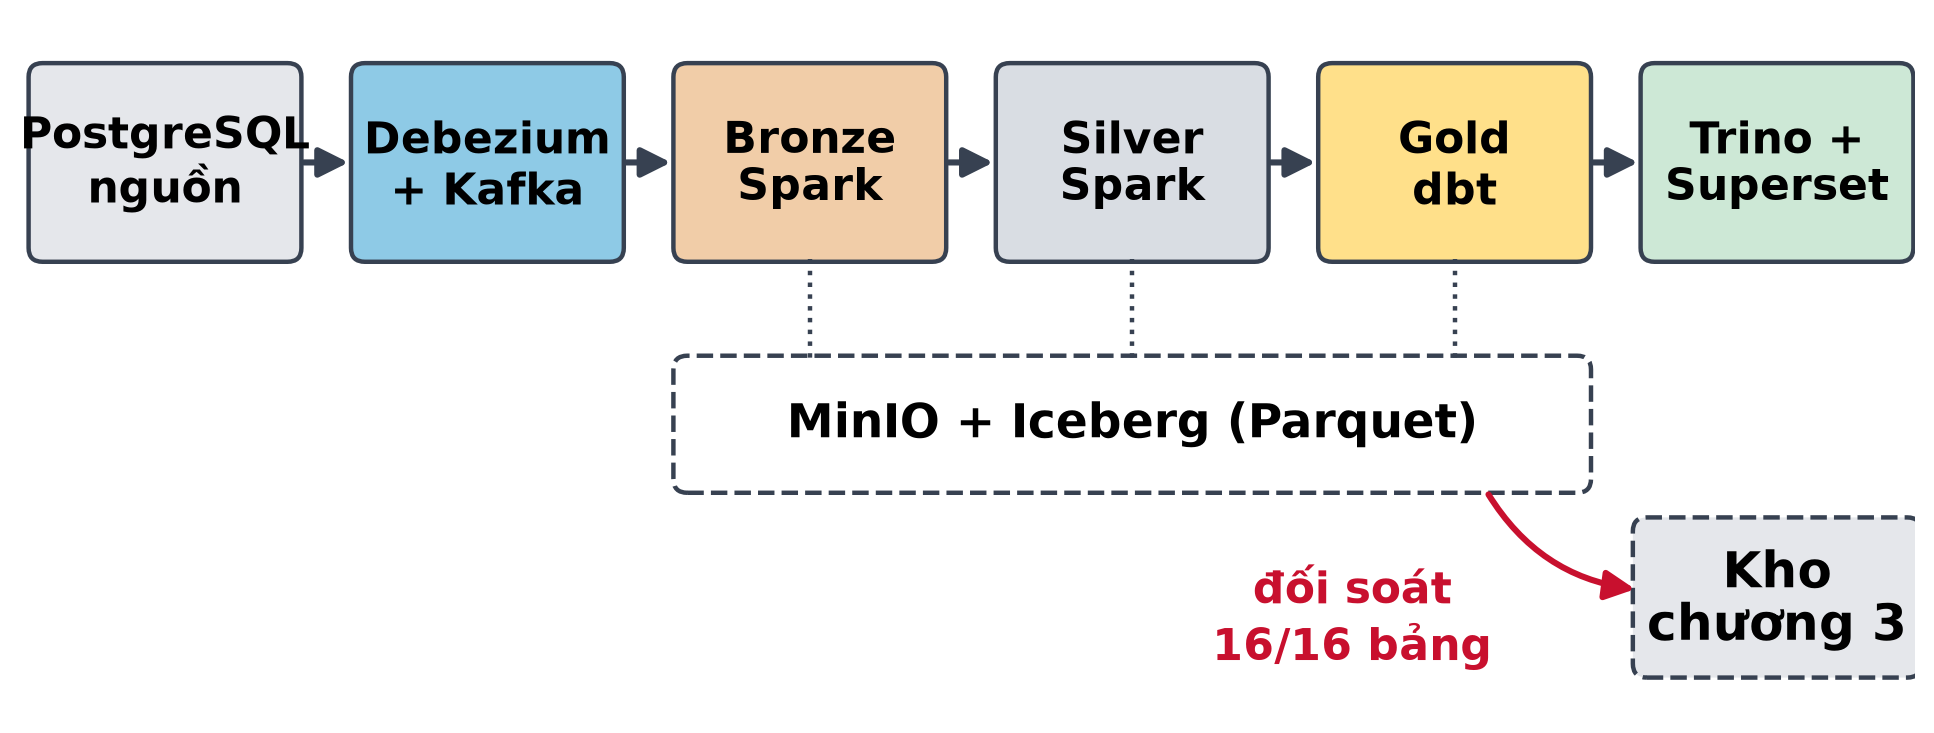
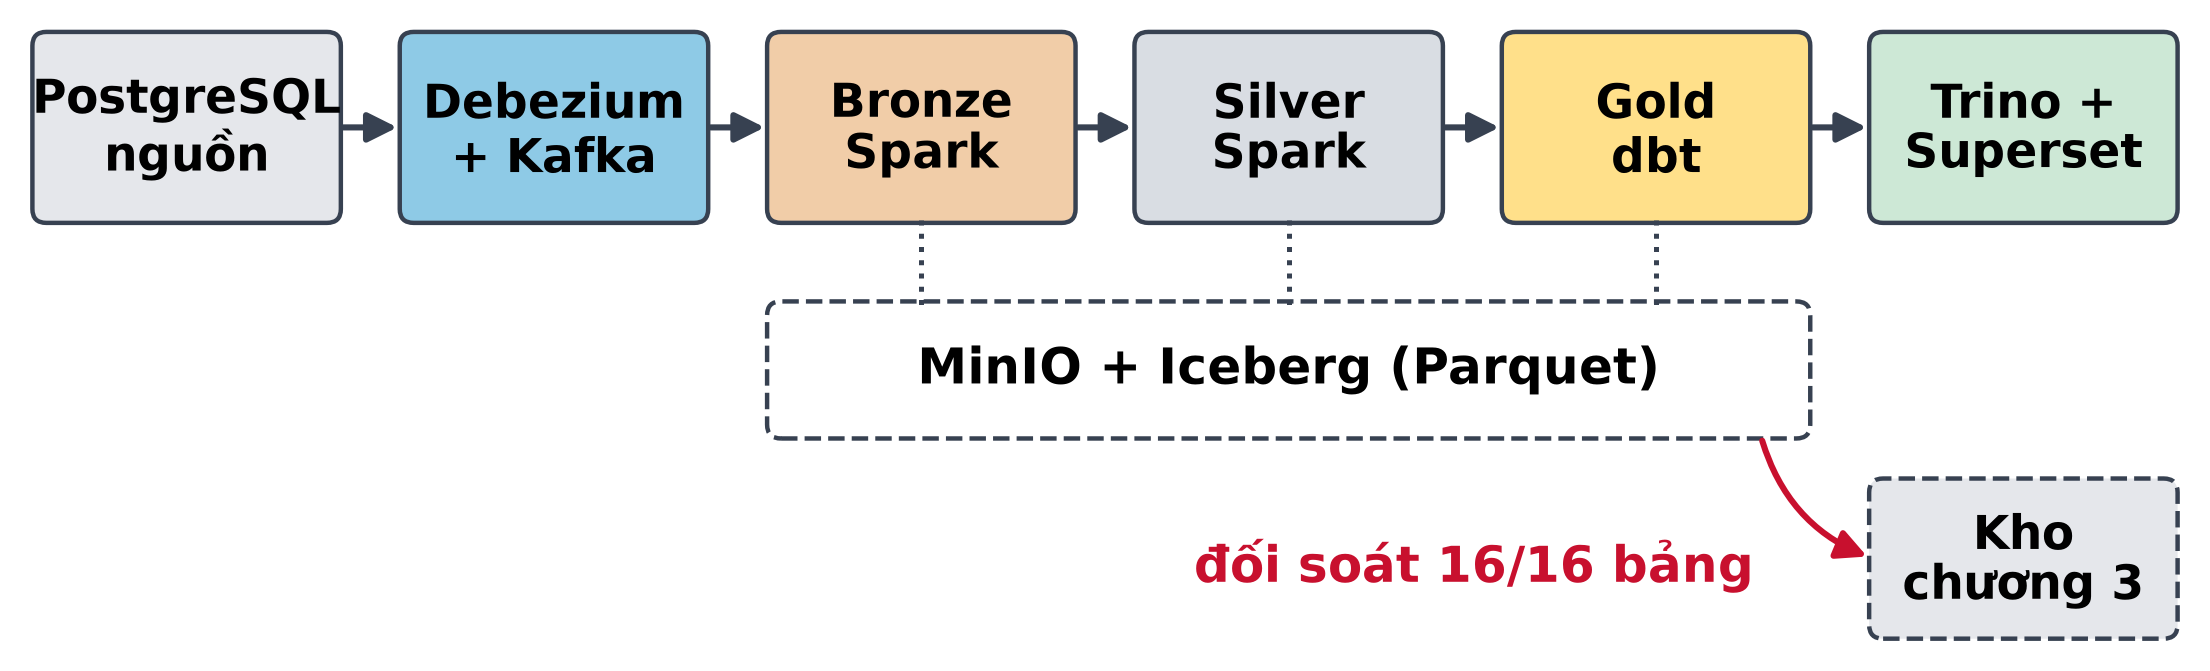
feat(P11c): cards on text-only slides, lakehouse diagram 3.3:1, fact lineage screenshot (full lineage to backup), per-capita chart alone, rules file in the Overleaf zip

Changed region(s): [[0.0, 0.0298, 0.9928, 0.3875], [0.3413, 0.4173, 0.9928, 0.9538]]

diff --git a/slides/sections/04-mo-rong.tex b/slides/sections/04-mo-rong.tex
@@ -30,13 +30,13 @@ Trino 477 & SQL, dbt, đối soát & 1.280 MiB \\
 % (F) CDC làm
 \begin{frame}{CDC: Debezium chụp snapshot 1.273.620 dòng rồi bắt từng thay đổi từ log}
 \muc{5.1 · Lakehouse}
+\HangSo[3]{\So{1.273.620}{dòng snapshot}\hfill\So{11}{topic Kafka}\hfill\So{$\approx$35 s}{chụp snapshot}}
 \begin{itemize}
-  \item Nạp nguồn đến 31/12/2017 bằng mã chương 3: 1.273.620 dòng trong 11,1 giây
-  \item Debezium chụp snapshot 11 bảng (khoảng 35 giây), rồi đọc log của PostgreSQL
-  \item Mỗi bảng là một topic Kafka \texttt{olist.<schema>.<bảng>}
+  \item Nạp nguồn đến 31/12/2017 bằng mã chương 3, trong 11,1 giây
+  \item Debezium chụp snapshot 11 bảng rồi đọc log của PostgreSQL
   \item Từ 01/01/2018 đến 14/11/2018: dữ liệu phát lại như đến sau
 \end{itemize}
-\note{[P10-bước 2] docs/LAKEHOUSE.md mục 3.6 và 3.8. Kho PostgreSQL của chương 3 không bị đụng tới. Connector olist-source, plugin pgoutput. Mã hoá: timestamp thành micro giây, date thành số ngày, numeric thành chuỗi. Mốc cắt: nạp ban đầu gồm mọi bản ghi đến 31/12/2017; phần phát lại bắt đầu 01/01/2018. Debezium giao ít nhất một lần (at-least-once) nên Silver phải chịu được sự kiện trùng.}
+\note{[P10-bước 2] docs/LAKEHOUSE.md mục 3.6 và 3.8. Kho PostgreSQL của chương 3 không bị đụng tới. Connector olist-source, plugin pgoutput. Mã hoá: timestamp thành micro giây, date thành số ngày, numeric thành chuỗi. Mốc cắt: nạp ban đầu gồm mọi bản ghi đến 31/12/2017; phần phát lại bắt đầu 01/01/2018. Debezium giao ít nhất một lần (at-least-once) nên Silver phải chịu được sự kiện trùng. Mỗi bảng là một topic Kafka olist.<schema>.<bảng>.}
 \end{frame}
 
 % (D) CDC minh chứng
@@ -58,13 +58,13 @@ CRM (\texttt{mql}, \texttt{closed\_deals}) và danh mục & 2.076 & 8.913 \\
 % (F) Bronze + Silver làm
 \begin{frame}{Bronze giữ nguyên văn sự kiện, Silver áp quy tắc ODS bằng MERGE}
 \muc{5.1 · Lakehouse}
+\HangSo[3]{\So{1,72 triệu}{dòng Bronze = Kafka}\hfill\So{30 s}{micro-batch}\hfill\So{96.338}{phiên bản SCD2 khách}}
 \begin{itemize}
-  \item Bronze: Spark đọc 11 topic, ghi nguyên văn vào bảng Iceberg chỉ-thêm (micro-batch 30 giây)
-  \item Silver: MERGE theo khoá, chỉ thay dòng khi \texttt{ts\_ms} không cũ hơn; sự kiện giao trùng vẫn an toàn
-  \item Đơn đến trước khách vào bảng \texttt{*\_rejected}, thử lại mỗi lô; cuối chạy còn 0
-  \item SCD2 địa chỉ khách: 96.338 phiên bản, khớp \texttt{dim\_customer} của kho
+  \item Bronze: Spark ghi nguyên văn từng sự kiện vào bảng Iceberg chỉ-thêm
+  \item Silver: MERGE theo khoá, chỉ thay dòng khi \texttt{ts\_ms} không cũ hơn
+  \item Đơn đến trước khách vào \texttt{*\_rejected}, thử lại mỗi lô; cuối chạy còn 0
 \end{itemize}
-\note{[P10-bước 3 và 4] lakehouse/spark/stream\_bronze\_silver.py, silver\_batch.py. Bronze: khoá, payload (JSON của Debezium), op, ts\_ms, partition và offset Kafka, ingested\_at; tối đa 100.000 sự kiện mỗi lô để giữ bộ nhớ. Dữ liệu API đi đường khác: tệp JSON lên s3://lakehouse/landing/, Spark tạo bốn bảng bronze.api\_* (73 dòng, chạy lại thêm 0 dòng). Silver áp quy tắc của sql/30\_ods/020\_ods\_procs.sql; silver.order\_status\_history là SCD2 theo trạng thái. Silver địa lý 19.015 zip (42 điểm bị loại, có ghi lý do); Silver API cùng bốn tầng ghép đô thị trùng từng số với P9.}
+\note{[P10-bước 3 và 4] lakehouse/spark/stream\_bronze\_silver.py, silver\_batch.py. Bronze: khoá, payload (JSON của Debezium), op, ts\_ms, partition và offset Kafka, ingested\_at; tối đa 100.000 sự kiện mỗi lô để giữ bộ nhớ. Dữ liệu API đi đường khác: tệp JSON lên s3://lakehouse/landing/, Spark tạo bốn bảng bronze.api\_* (73 dòng, chạy lại thêm 0 dòng). Silver áp quy tắc của sql/30\_ods/020\_ods\_procs.sql; silver.order\_status\_history là SCD2 theo trạng thái. Silver địa lý 19.015 zip (42 điểm bị loại, có ghi lý do); Silver API cùng bốn tầng ghép đô thị trùng từng số với P9. SCD2 địa chỉ khách: 96.338 phiên bản, khớp dim\_customer của kho.}
 \end{frame}
 
 % (D) Silver minh chứng
@@ -85,21 +85,21 @@ CRM (\texttt{mql}, \texttt{closed\_deals}) và danh mục & 2.076 & 8.913 \\
 % (F) Gold làm
 \begin{frame}{Gold: dbt dựng 20 model trong 70 giây, giữ nguyên tên bảng và cột của đặc tả}
 \muc{5.1 · Lakehouse}
+\HangSo[3]{\So{20}{model dbt}\hfill\So{70 s}{dựng toàn bộ}\hfill\So{71}{phép kiểm thử đạt}}
 \begin{itemize}
-  \item 10 dimension, 6 fact, 4 mart cho Superset; dòng Unknown khoá $-1$ như kho
-  \item Dùng lại seed của chương 3; lịch \texttt{dim\_date} sinh từ chính hàm của chương 3
-  \item Địa lý và ngày được làm giàu bằng dữ liệu API như ở chương 3
-  \item Khoá thay thế đánh số khác kho, nên đối soát dịch khoá ngoại về giá trị tự nhiên
+  \item 10 dimension, 6 fact, 4 mart; dòng Unknown khoá $-1$ như kho
+  \item Dùng lại seed và lịch \texttt{dim\_date} của chương 3; làm giàu bằng dữ liệu API
+  \item Khoá thay thế khác kho, nên đối soát dịch khoá ngoại về giá trị tự nhiên
 \end{itemize}
 \note{[P10-bước 5] lakehouse/dbt (dbt-trino). Bốn bảng mart: mart\_sales\_daily, mart\_sales\_category\_month, mart\_sales\_state\_month, mart\_category\_pareto, cùng cột với mart\_sales của kho. 71 phép kiểm thử dbt: unique, not\_null, relationships, accepted\_values, grain của fact (unique\_combination) và ba phép riêng (Gold = Silver về tiền và số dòng, SCD2 không chồng thời gian).}
 \end{frame}
 
 % (A) lineage
-\begin{frame}{Lineage bốn tầng: 18 nguồn Silver, 10 dimension, 6 fact, 4 mart}
+\begin{frame}{Lineage của fact\_order\_item: 13 nguồn Silver qua 5 dimension}
 \muc{5.1 · Lakehouse}
-\HinhLon[0.54\textheight]{5-1_dbt_lineage.png}
+\AnhChup[0.52\textheight]{5-1_dbt_lineage_fact_tc.png}
 \KetLuan{71/71 phép kiểm thử dbt đạt, gồm 3 phép riêng về tiền, số dòng và SCD2}
-\note{[P10-bước 5] Hình vẽ bằng lakehouse/scripts/gen\_lineage.py từ dbt/target/manifest.json, 77 cạnh phụ thuộc. Fact nối tới dim\_date qua depends\_on vì khoá ngày tính từ mốc thời gian, không join. Ảnh dbt test: slide dự phòng chương 5.}
+\note{[P10-bước 5] Ảnh Phú chụp từ dbt docs (figures/5-1\_dbt\_lineage\_fact.png, đã cắt: 5-1\_dbt\_lineage\_fact\_tc.png): 13 nguồn Silver, 5 dimension nối tới fact\_order\_item. Ảnh chụp trước khi thêm depends\_on nên chưa vẽ dim\_date; fact nối tới dim\_date qua khoá ngày tính từ mốc thời gian, không join. Hình bốn tầng đầy đủ (18 nguồn Silver, 10 dimension, 6 fact, 4 mart) ở slide dự phòng chương 5. Ảnh dbt test: slide dự phòng chương 5.}
 \end{frame}
 
 % (B) đối soát
@@ -234,14 +234,9 @@ Không khớp & 719 & -- & 0,5 chưa khớp \\
 % (A/H) theo đầu người
 \begin{frame}{Theo đầu người, Rio de Janeiro dẫn đầu: 53,90 BRL trên 1.000 dân}
 \muc{5.2 · Thu thập từ API}
-\HinhChu[0.56\textheight]{5-2_gmv_dau_nguoi_theo_bang_sl.png}{%
-\begin{itemize}
-  \item Distrito Federal: hạng 9 theo GMV, hạng 3 theo đầu người
-  \item Maranhão tụt từ hạng 15 xuống 24
-  \item Spearman giữa hai thứ hạng: 0,78
-\end{itemize}}
-\KetLuan{Xếp theo đầu người đổi thứ hạng nhiều bang so với xếp theo GMV}
-\note{[S121] Dân số là ước tính IBGE 2017, GMV theo bang của khách. 2017: RJ 53,90; SP 48,58; DF 43,95; thấp nhất AM 2,58. MA tụt từ hạng 15 xuống 24; PA 13 sang 22; TO lên 23 sang 12. Cả nước 29,42 BRL trên 1.000 dân năm 2017 và 35,21 năm 2018.}
+\HinhLon[0.54\textheight]{5-2_gmv_dau_nguoi_theo_bang_sl.png}
+\KetLuan{RJ 53,90 dẫn đầu; DF hạng 9 theo GMV lên hạng 3; MA tụt từ hạng 15 xuống 24}
+\note{[S121] Dân số là ước tính IBGE 2017, GMV theo bang của khách. 2017: RJ 53,90; SP 48,58; DF 43,95; thấp nhất AM 2,58. MA tụt từ hạng 15 xuống 24; PA 13 sang 22; TO lên 23 sang 12. Cả nước 29,42 BRL trên 1.000 dân năm 2017 và 35,21 năm 2018. Distrito Federal: hạng 9 theo GMV, hạng 3 theo đầu người. Maranhão tụt từ hạng 15 xuống 24. Spearman giữa hai thứ hạng: 0,78. Số dưới mã bang trên hình là hạng theo GMV.}
 \end{frame}
 
 % (A) danh nghĩa so với thực

diff --git a/scripts/p9_results.py b/scripts/p9_results.py
@@ -38,7 +38,7 @@ if SLIDE:                                   # P11: same data and drawing code, p
 
     plt.rcParams.update({"font.size": 18, "xtick.labelsize": 18, "ytick.labelsize": 18})
     _subplots = plt.subplots
-    plt.subplots = lambda *a, **k: _subplots(*a, **{**k, "figsize": (14, 8.6) if k.get("figsize", (0, 0))[1] > 6.5 else (14, 4.3)})
+    plt.subplots = lambda *a, **k: _subplots(*a, **{**k, "figsize": (14, 3.0) if k.get("figsize", (0, 0))[1] > 6.5 else (14, 4.3)})
     _ax.Axes.set_title = lambda self, *a, **k: None
     _text = _ax.Axes.text
     _ax.Axes.text = lambda self, x, y, s, *a, **k: _text(self, x, y, s, *a, **{**k, "fontsize": max(k.get("fontsize", 16), 16)})
@@ -50,7 +50,7 @@ if SLIDE:                                   # P11: same data and drawing code, p
     _ax.Axes.set_xticklabels = lambda self, l, *a, **k: _xt(self, [_tw.fill(str(t), 15) for t in l], *a, **{**k, "fontsize": 18})
     _sy = _ax.Axes.set_ylim
     _ax.Axes.set_ylim = lambda self, *a, **k: _sy(self, 40, 104) if a == (80, 102) else _sy(self, *a, **k)   # tier chart: show the 47-54% of tier 1 instead of cutting it off
-    _ax.Axes.legend = lambda self, *a, **k: _lg(self, *a, **{**k, "fontsize": 16, **({"loc": "lower center", "bbox_to_anchor": (0.5, 1.0), "ncol": 3, "frameon": False} if "luỹ kế" in self.get_ylabel() else {})})
+    _ax.Axes.legend = lambda self, *a, **k: _lg(self, *a, **{**k, "fontsize": 16, **({"loc": "lower center", "bbox_to_anchor": (0.5, 1.0), "ncol": 5, "frameon": False} if "1.000 dân" in self.get_ylabel() else {}), **({"loc": "lower center", "bbox_to_anchor": (0.5, 1.0), "ncol": 3, "frameon": False} if "luỹ kế" in self.get_ylabel() else {})})
 
 
 def q(sql, **p) -> pd.DataFrame:
@@ -210,10 +210,22 @@ md += ["", f"Spearman giữa GMV/1.000 dân và GMV tuyệt đối (27 bang, 201
 fig, ax = plt.subplots(figsize=(7.6, 7.2))
 dd = d17.sort_values("gmv_per_1000_pop")
 colors = [{"Sudeste": BLUE_D, "Sul": GREEN_D, "Nordeste": ORANGE_D, "Norte": "#9B5DE5", "Centro-Oeste": "#00A6A6"}[r] for r in dd.region]
-ax.barh(dd.state_code, dd.gmv_per_1000_pop, color=colors)
-for yi, (v, rg, ra) in enumerate(zip(dd.gmv_per_1000_pop, dd.rank_gmv, dd.rank_per_capita)):
-    ax.text(v + 0.6, yi, f"{v:.1f}  (hạng GMV {rg})", va="center", fontsize=7)
-ax.set_xlabel("BRL GMV trên 1.000 dân (2017)")
+if SLIDE:                                   # projector variant: 27 vertical bars, rank by GMV printed under each state code
+    dd, colors = dd.iloc[::-1], colors[::-1]
+    xs_ = list(range(len(dd)))
+    ax.bar(xs_, dd.gmv_per_1000_pop, color=colors)
+    ax.set_xticks(xs_, labels=[f"{c}\n{r}" for c, r in zip(dd.state_code, dd.rank_gmv)])
+    for xi, v in zip(xs_, dd.gmv_per_1000_pop):
+        ax.text(xi, v + 0.8, f"{v:.1f}", ha="center", va="bottom", rotation=90, fontsize=16)
+    ax.set_ylabel("BRL / 1.000 dân")
+    ax.set_xlabel("số dưới mã bang = hạng theo GMV (năm 2017)")
+    ax.tick_params(axis="x", labelsize=15)
+    ax.set_ylim(0, 70)
+else:
+    ax.barh(dd.state_code, dd.gmv_per_1000_pop, color=colors)
+    for yi, (v, rg, ra) in enumerate(zip(dd.gmv_per_1000_pop, dd.rank_gmv, dd.rank_per_capita)):
+        ax.text(v + 0.6, yi, f"{v:.1f}  (hạng GMV {rg})", va="center", fontsize=7)
+    ax.set_xlabel("BRL GMV trên 1.000 dân (2017)")
 ax.set_title("Bang nào mua nhiều nhất theo đầu người?", fontsize=11)
 from matplotlib.patches import Patch
 ax.legend(handles=[Patch(color=c, label=l) for l, c in (("Sudeste", BLUE_D), ("Sul", GREEN_D), ("Nordeste", ORANGE_D), ("Norte", "#9B5DE5"), ("Centro-Oeste", "#00A6A6"))], fontsize=8, loc="lower right")

diff --git a/scripts/p11_figures.py b/scripts/p11_figures.py
@@ -52,25 +52,26 @@ def save(fig, name):
     print("written", name)
 
 
-# ------------------------------------------------------------------ Lakehouse architecture (8 blocks)
-W, H = 12.2, 4.5
+# ------------------------------------------------------------------ Lakehouse architecture (8 blocks, about 3:1 so that it fills the slide width)
+NL_ = chr(10)
+W, H = 14.0, 4.1
 fig, ax = canvas(W, H)
-bw, bh, gap, y0 = 1.72, 1.25, 0.36, 2.95
-xs = [0.05 + i * (bw + gap) for i in range(6)]
-names = [("PostgreSQL\nnguồn", GREY), ("Debezium\n+ Kafka", BLUE), ("Bronze\nSpark", BRONZE), ("Silver\nSpark", SILVER), ("Gold\ndbt", GOLD), ("Trino +\nSuperset", GREEN)]
+bw, bh = 1.95, 1.2
+gap = (W - 0.2 - 6 * bw) / 5
+xs = [0.1 + i * (bw + gap) for i in range(6)]
+y0 = 2.8
+names = [("PostgreSQL%snguồn", GREY), ("Debezium%s+ Kafka", BLUE), ("Bronze%sSpark", BRONZE), ("Silver%sSpark", SILVER), ("Gold%sdbt", GOLD), ("Trino +%sSuperset", GREEN)]
 for x, (t, c) in zip(xs, names):
-    block(ax, x, y0, bw, bh, t, c)
+    block(ax, x, y0, bw, bh, t.replace("%s", NL_), c, fs=17)
 for i in range(5):
     arrow(ax, (xs[i] + bw, y0 + bh / 2), (xs[i + 1], y0 + bh / 2))
-# storage band under Bronze..Gold
 bx0, bx1 = xs[2], xs[4] + bw
-block(ax, bx0, 1.45, bx1 - bx0, 0.85, "MinIO + Iceberg (Parquet)", "#FFFFFF", fs=17, dashed=True)
+block(ax, bx0, 1.4, bx1 - bx0, 0.85, "MinIO + Iceberg (Parquet)", "#FFFFFF", fs=18, dashed=True)
 for k in (2, 3, 4):
-    ax.plot([xs[k] + bw / 2] * 2, [y0, 2.3], color=EDGE, lw=1.6, ls=":")
-# chapter 3 warehouse + reconciliation
-block(ax, xs[5] - 0.05, 0.25, bw + 0.1, 1.0, "Kho\nchương 3", GREY, fs=18, dashed=True)
-arrow(ax, (xs[4] + bw / 2 + 0.2, 1.45), (xs[5] - 0.02, 0.8), "", color=RED, rad=0.25)
-ax.text(xs[4] + 0.2, 0.62, "đối soát\n16/16 bảng", fontsize=16, color=RED, fontweight="bold", ha="center", va="center")
+    ax.plot([xs[k] + bw / 2] * 2, [y0, 2.25], color=EDGE, lw=1.8, ls=":")
+block(ax, xs[5], 0.1, bw, 1.0, "Kho%schương 3".replace("%s", NL_), GREY, fs=17, dashed=True)
+arrow(ax, (xs[4] + bw - 0.3, 1.4), (xs[5], 0.6), "", color=RED, rad=0.25)
+ax.text(xs[4] - 0.2, 0.55, "đối soát 16/16 bảng", fontsize=18, color=RED, fontweight="bold", ha="center", va="center")
 save(fig, "5-1_kien_truc_lakehouse_sl.png")
 
 # ------------------------------------------------------------------ API architecture (7 blocks)

diff --git a/slides/sections/99-du-phong.tex b/slides/sections/99-du-phong.tex
@@ -291,6 +291,12 @@ Chạy thử (3.000 sự kiện đầu) & 3.000 & 541 \\
 \note{[P11-dự phòng 5.1] Ảnh Phú chụp (nửa cuối đầu ra dbt test): figures/5-1\_dbt\_test\_2.png, đã cắt. Chạy lại trong bộ pytest bằng tham số --run-slow.}
 \end{frame}
 
+\begin{frame}[noprogressbar,noframenumbering]{Lineage bốn tầng: 18 nguồn Silver, 10 dimension, 6 fact, 4 mart}
+\HinhLon[0.54\textheight]{5-1_dbt_lineage.png}
+\KetLuan{77 cạnh phụ thuộc; 71/71 phép kiểm thử dbt đạt}
+\note{[P11-dự phòng 5.1] Hình vẽ bằng lakehouse/scripts/gen\_lineage.py từ dbt/target/manifest.json. Fact nối tới dim\_date qua depends\_on vì khoá ngày tính từ mốc thời gian, không join.}
+\end{frame}
+
 \begin{frame}[noprogressbar,noframenumbering]{Dung sai: hai chỗ được nới và một ngoại lệ có giải thích}
 \begin{itemize}
   \item \texttt{late\_rate}, \texttt{avg\_review\_score}: làm tròn 4 chữ số thập phân ở cả hai phía

diff --git a/scripts/make_slides_zip.py b/scripts/make_slides_zip.py
@@ -10,7 +10,7 @@ skip = {".aux", ".log", ".toc", ".nav", ".snm", ".out", ".xdv", ".fls", ".fdb_la
 with zipfile.ZipFile(out, "w", zipfile.ZIP_DEFLATED) as z:
     for p in sorted(SL.rglob("*")):
         rel = p.relative_to(SL).parts
-        if p.is_dir() or p.suffix in skip or p.name in {"README.md", "slide-script.md", "QUY-TAC-TRINH-BAY.md"} or p.name.startswith("build") or rel[0] in {"mau", "_xem_truoc"}:
+        if p.is_dir() or p.suffix in skip or p.name in {"README.md", "slide-script.md"} or p.name.startswith("build") or rel[0] in {"mau", "_xem_truoc"}:
             continue
         z.write(p, p.relative_to(SL).as_posix())
 print(f"{out.name}: {out.stat().st_size / 1024 / 1024:.1f} MB, {len(zipfile.ZipFile(out).namelist())} files")

diff --git a/handoff/2026-11-20-P11-slide.md b/handoff/2026-11-20-P11-slide.md
@@ -77,3 +77,11 @@ Ba lỗi tiêu biểu mỗi file (mỗi lỗi một mã quy tắc khác nhau):
 - **Biểu đồ `*_sl.png`** (`5-1_latency` và bảy biểu đồ `5-2_*`) sinh lại với `figsize` 14 x 4,3 (tỉ lệ 3,2 để lấp hơn 85% chiều rộng trang khi khung cao 0,56 chiều cao chữ), chữ trục 18, nhãn số 16, số liệu giữ nguyên. Dùng (14, 5,6) như đề xuất thì hình chỉ rộng khoảng 70% vì bị giới hạn theo chiều cao khung. Biểu đồ GMV trên đầu người (27 thanh) dùng 14 x 8,6 và vẫn nằm cạnh ba ý ngắn nên còn nhỏ: chuyển các ý sang `\KetLuan` nếu cần hình to hơn.
 - **Hai sơ đồ chương 3 ở slide mở đầu** vẽ lại cho slide: `3-3-4_constellation_sl.png` (6 fact, 7 khối dimension, 13 khối) và `3-4-1_pipeline_sl.png` (7 bước và một băng `etl_log`); file gốc không đổi. Quan hệ fact–dimension trong sơ đồ rút từ `lakehouse/dbt/models/gold/schema.yml` và `DW_DESIGN.md` (dim_date nối cả 6 fact; dim_customer nối 4 fact), nên Người 3 nên đối chiếu với ERD đầy đủ ở chương 3 trước khi dùng.
 - Tạo bằng `python scripts/p11_figures.py` và `python scripts/p9_results.py --slide`; `kiem_tra_slide.py --strict` 0 LỖI cho `00`, `04`, `05`; không còn `Overfull \vbox` ở ba file này; `slides_overleaf.zip` và `slides/main.pdf` đã tạo lại (201 trang).
+
+## P11c – sửa nhỏ slide 04 (20/11/2026)
+- **Ba slide chỉ có chữ** (CDC, Bronze và Silver, Gold) thêm `\HangSo` 3 thẻ với số đã có (1.273.620 dòng / 11 topic / khoảng 35 giây; 1,72 triệu dòng Bronze / 30 giây / 96.338 phiên bản SCD2; 20 model / 70 giây / 71 phép kiểm thử), giữ tối đa 3 ý; ý bỏ khỏi slide chuyển vào `\note{}`.
+- **Sơ đồ kiến trúc lakehouse** vẽ lại tỉ lệ khoảng 3,3:1 (14 x 4,1), trên slide rộng khoảng 88% trang.
+- **Slide lineage** dùng ảnh `5-1_dbt_lineage_fact_tc.png` (cắt từ ảnh Phú chụp, 13 nguồn Silver, 5 dimension, 1 fact); hình bốn tầng đầy đủ chuyển sang `99-du-phong.tex`. Ảnh chụp trước khi thêm `depends_on` nên chưa vẽ `dim_date`; nên chụp lại sau `dbt docs serve`.
+- **Slide GMV trên 1.000 dân:** hình đứng một mình, ba ý chuyển vào `\KetLuan` và `\note`. Biểu đồ bản chiếu vẽ thành 27 cột đứng (hạng theo GMV ghi dưới mã bang), 14 x 3,0; vì vẫn bị giới hạn theo chiều cao khung, hình rộng khoảng 65% trang.
+- **`slides_overleaf.zip`** nay có `slides/QUY-TAC-TRINH-BAY.md` (và `bocuc.sty`); không có `slides/mau/`.
+- `kiem_tra_slide.py --strict` 0 LỖI, 0 NÊN cho `00`, `04`, `05`; không còn `Overfull \vbox`.
